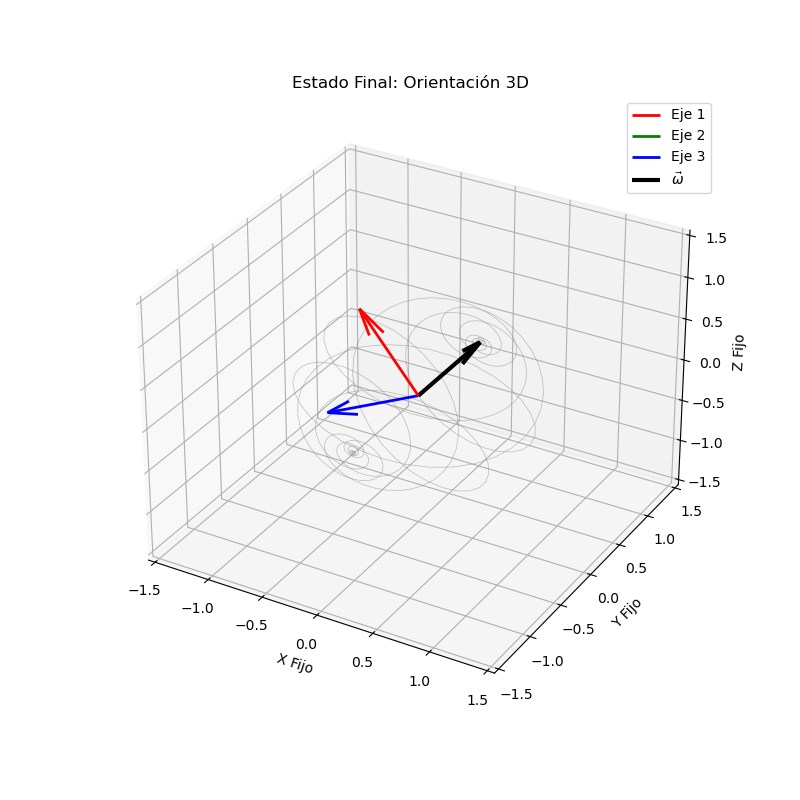
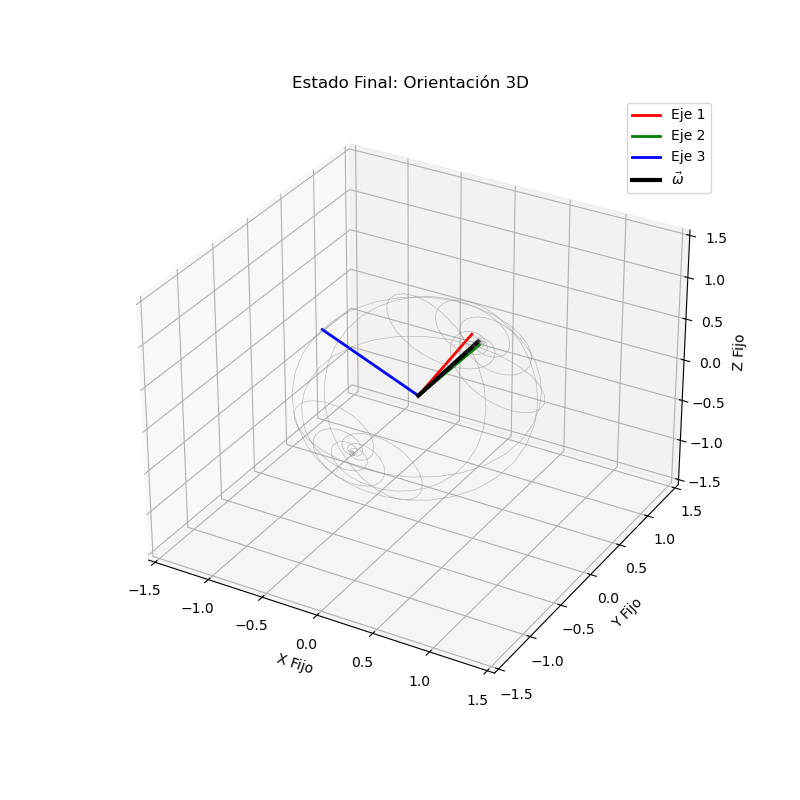
se baja un orden la perturbacion

Changed region(s): [[0.3438, 0.375, 0.6875, 0.625], [0.5625, 0.5312, 0.625, 0.5938], [0.5, 0.3438, 0.5312, 0.375]]

diff --git a/eq_euler.py b/eq_euler.py
@@ -15,7 +15,7 @@ def euler_eom(t, omega):
     return [dw1_dt, dw2_dt, dw3_dt]
 
 # Simulación de la velocidad angular (Paso 1)
-omega0 = [0.001, 1.0, 0.0]
+omega0 = [0.0001, 1.0, 0.0]
 t_span = (0, 185)
 t_eval = np.linspace(t_span[0], t_span[1], 1000)
 sol_omega = solve_ivp(euler_eom, t_span, omega0, t_eval=t_eval, method='DOP853', dense_output=True, rtol=1e-10, atol=1e-12)
